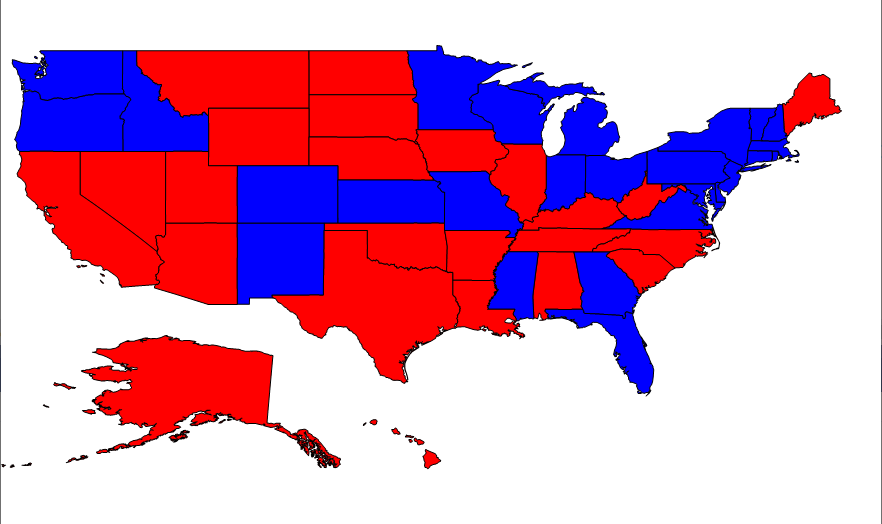
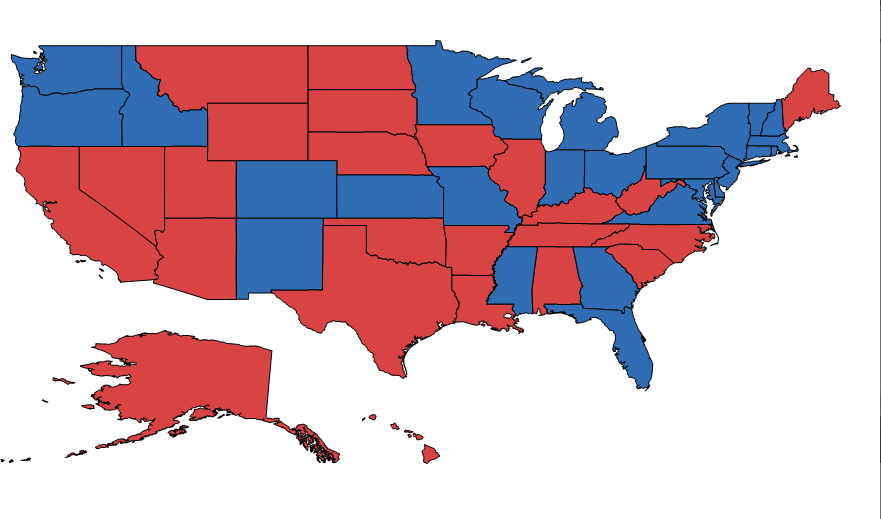
Content review changes added

diff --git a/WindowsForms/Map/Customizing-Map-appearance.md b/WindowsForms/Map/Customizing-Map-appearance.md
@@ -73,9 +73,9 @@ partial class Form1
             shapeLayer.ShapeIDTableField = "STATE_NAME";
             shapeLayer.ShapeSetting.ShapeColorValuePath = "Candidate";
             shapeLayer.ShapeSetting.ShapeStrokeThickness = 1.5;
-            shapeLayer.ShapeSetting.FillSetting.ColorMappings = new System.Collections.ObjectModel.ObservableCollection<ColorMapping>();
-            shapeLayer.ShapeSetting.FillSetting.ColorMappings.Add(new EqualColorMapping { Color = Color.Red, Value= "Romney" });
-            shapeLayer.ShapeSetting.FillSetting.ColorMappings.Add(new EqualColorMapping { Color = Color.Blue, Value = "Obama" });
+            shapeLayer.ShapeSetting.FillSetting.ColorMappings = new System.Collections.ObjectModel.ObservableCollection<ColorMapping>();            
+            shapeLayer.ShapeSetting.FillSetting.ColorMappings.Add(new EqualColorMapping { Color = Color.FromArgb(1, 216, 68, 68), Value = "Romney" });
+            shapeLayer.ShapeSetting.FillSetting.ColorMappings.Add(new EqualColorMapping { Color = Color.FromArgb(1, 49, 109, 181), Value = "Obama" });
             this.mapsControl1.Layers.Add(shapeLayer);
          }
 } 
